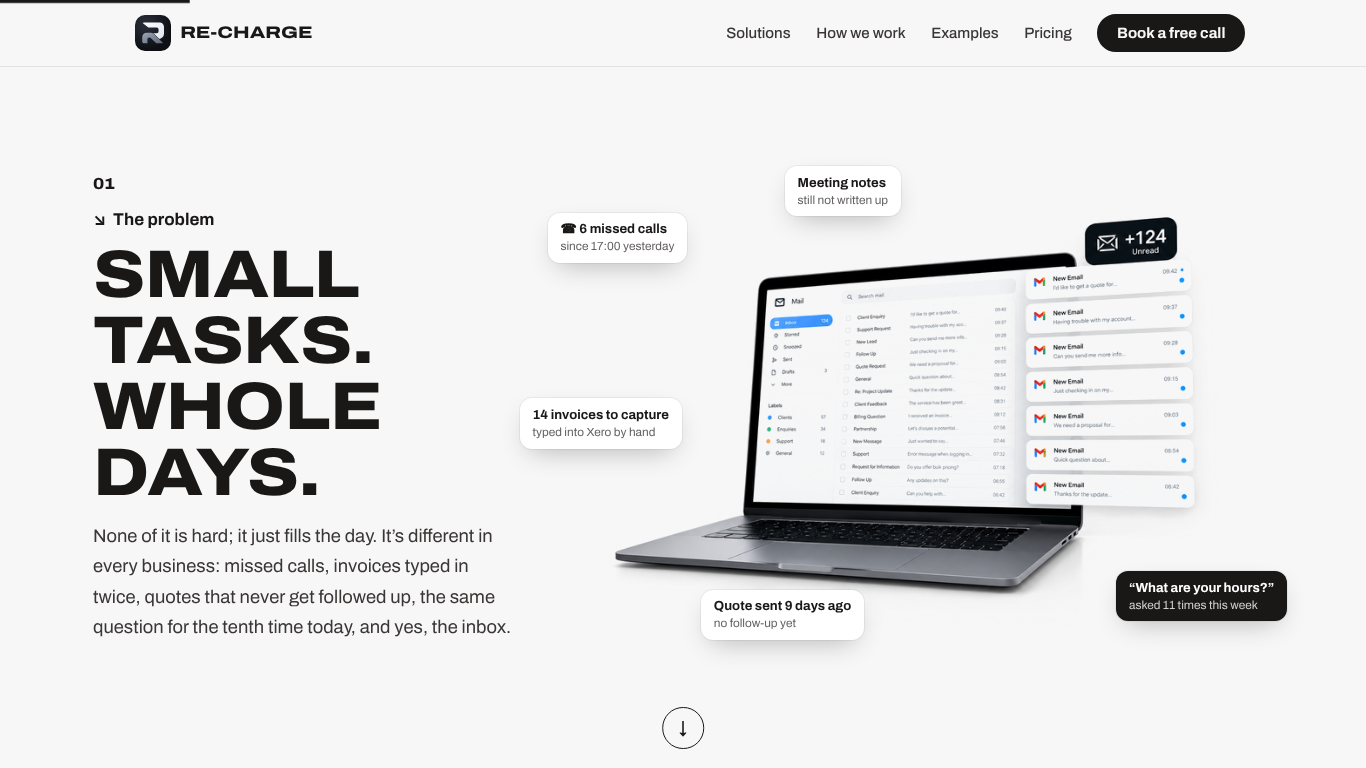
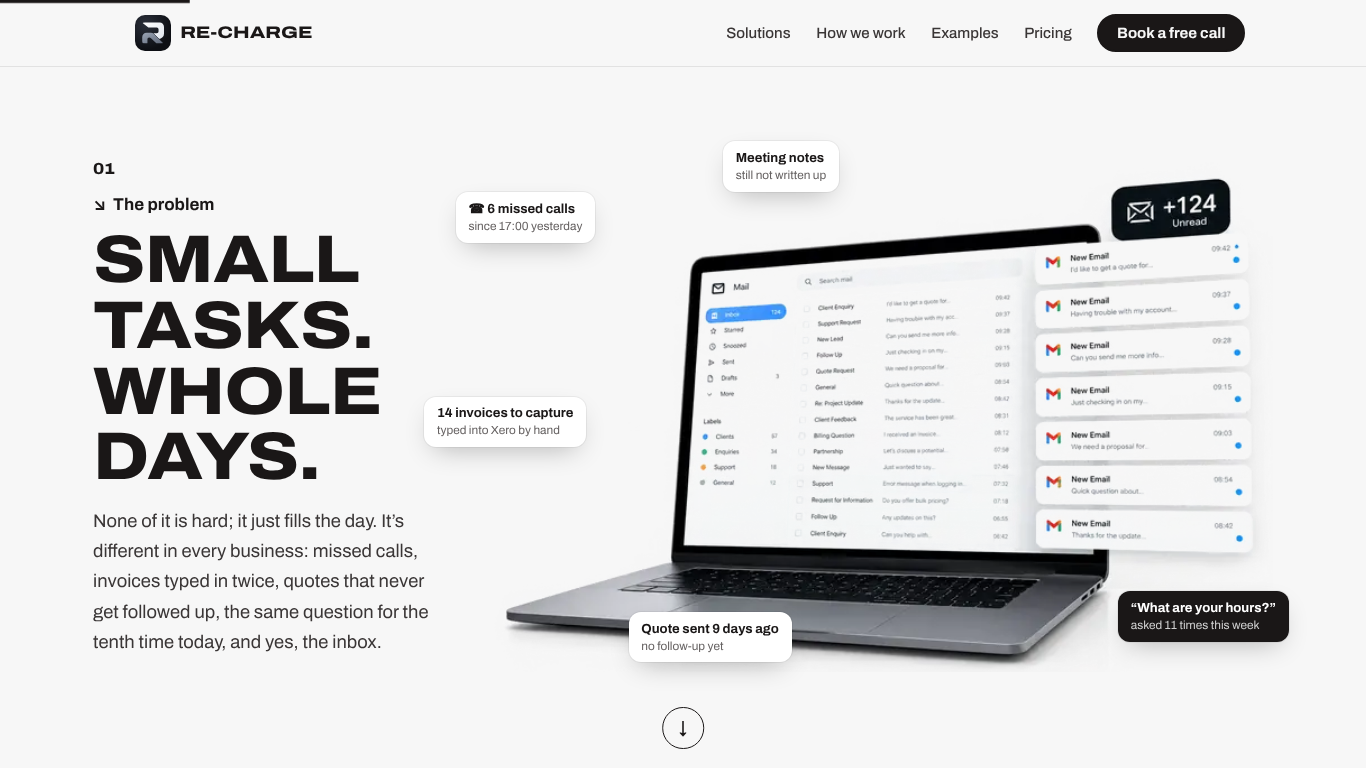
Problem slide: crop the laptop photo tight and give it more room; fix phone layout
Claude-Session: https://claude.ai/code/session_01M1NKcTwKaxVh1QCPGxnW1z

diff --git a/index.html b/index.html
@@ -31,7 +31,7 @@
   <link rel="stylesheet" href="https://fonts.googleapis.com/css2?family=Archivo:wdth,wght@62..125,400..900&family=Inter:wght@400;500;600&family=Space+Grotesk:wght@500;600;700&family=JetBrains+Mono:wght@400;500;600&display=swap" media="print" onload="this.media=&#39;all&#39;" />
   <noscript><link rel="stylesheet" href="https://fonts.googleapis.com/css2?family=Archivo:wdth,wght@62..125,400..900&family=Inter:wght@400;500;600&family=Space+Grotesk:wght@500;600;700&family=JetBrains+Mono:wght@400;500;600&display=swap" /></noscript>
   <link rel="stylesheet" href="styles.css?v=20261016l" />
-  <link rel="stylesheet" href="home.css?v=20261016j" />
+  <link rel="stylesheet" href="home.css?v=20261016l" />
 
   <script type="application/ld+json">
 {
@@ -234,7 +234,7 @@
           <p class="hp-problem__lead">None of it is hard; it just fills the day. It&rsquo;s different in every business: missed calls, invoices typed in twice, quotes that never get followed up, the same question for the tenth time today, and yes, the inbox.</p>
         </div>
         <figure class="hp-art hp-art--problem hp-pile" data-anim aria-label="The kind of work that piles up: missed calls, invoices to capture, quotes waiting, repeated questions and unread emails.">
-          <img src="assets/art/inbox-overload.webp?v=3" alt="" width="800" height="533" loading="lazy" />
+          <img src="assets/art/inbox-overload.webp?v=4" alt="" width="800" height="533" loading="lazy" />
           <span class="hp-chip hp-chip--1"><b>&#9742; 6 missed calls</b><small>since 17:00 yesterday</small></span>
           <span class="hp-chip hp-chip--2"><b>14 invoices to capture</b><small>typed into Xero by hand</small></span>
           <span class="hp-chip hp-chip--3"><b>Quote sent 9 days ago</b><small>no follow-up yet</small></span>

diff --git a/home.css b/home.css
@@ -565,3 +565,12 @@ html:has(.hp-slides) { scroll-snap-type: y proximity; scroll-padding-top: var(--
   .hp-swipe__nav .hp-link { font-size: .9rem; }
 }
 .hp-swipe__item img { max-height: min(calc(100svh - var(--nav-h, 67px) - 21rem), 30rem); }
+/* Problem: the laptop photo is cropped tight and gets most of the screen */
+.hp-problem__grid { grid-template-columns: minmax(0, .62fr) minmax(0, 1.38fr) !important; gap: 2rem clamp(1.5rem, 3vw, 3rem) !important; }
+.hp-art--problem img { max-width: 100% !important; max-height: calc(100svh - var(--nav-h, 67px) - 7rem) !important; }
+@media (max-width: 860px) {
+  .hp-problem__grid { grid-template-columns: 1fr !important; gap: .6rem !important; }
+  .hp-art--problem { margin: .4rem 0 0 !important; }
+  .hp-art--problem img { max-height: 36vh !important; }
+}
+@media (max-width: 860px) and (max-height: 780px) { .hp-art--problem img { max-height: 30vh !important; } }
